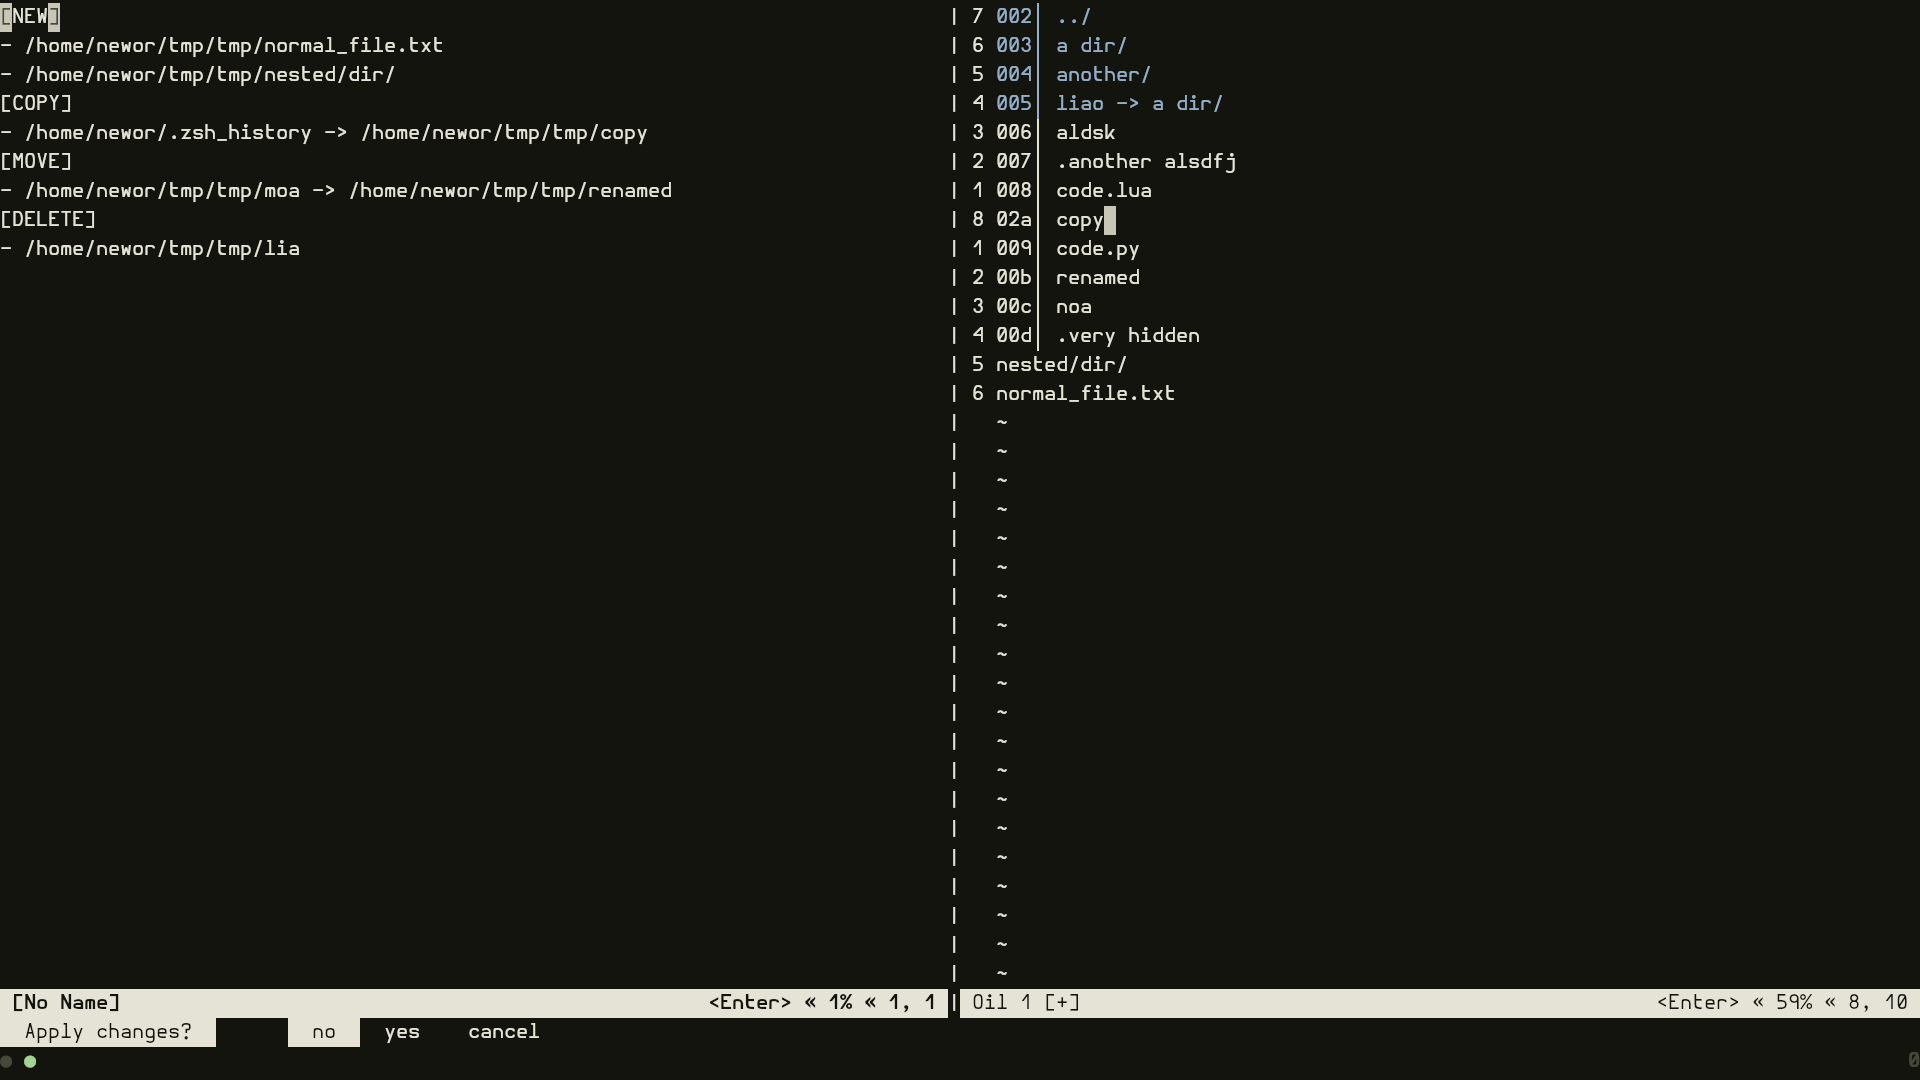
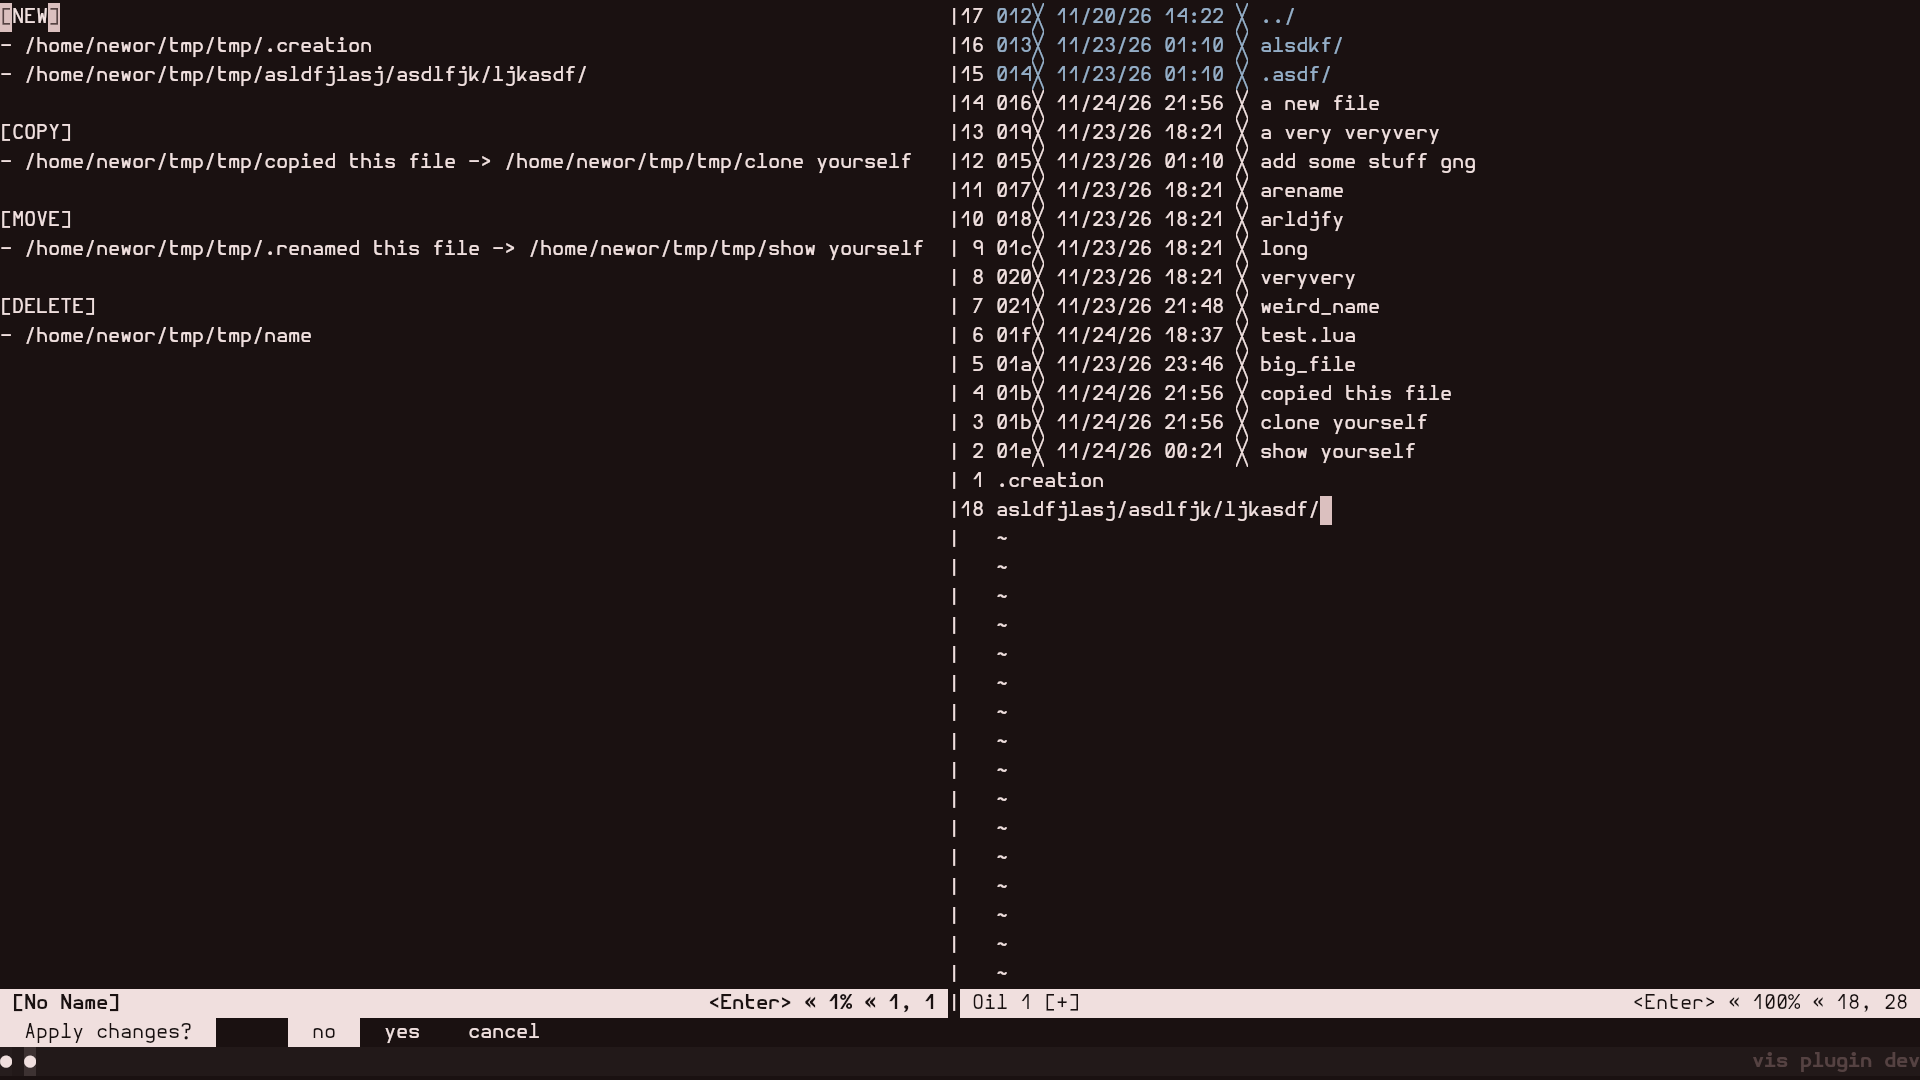
Document sort, attribute usage
[CHANGES]
- README
- Preview image

diff --git a/README.md b/README.md
@@ -15,9 +15,7 @@ Edit your filesystem like a text buffer.
 
 ### Planned
 - Full posix system support
-- Sort (creation date, name, size, last modified)
 - Icons
-- Show file information (size, creation date, last modified, permissions)
 
 ### Installation
 With vis-plug
@@ -25,7 +23,7 @@ With vis-plug
 { "newor0599/vis-oil", alias="oil" },
 ```
 
-### Configuration
+### Preview configuration
 ```lua
 -- Initialize default configuration
 oil()
@@ -41,7 +39,45 @@ oil:map_open_vertical(" vv")
 
 -- Map <Space>hh to open oil in a new horizontal window
 oil:map_open_horizontal(" hh")
+
+-- Show last modified as MM/DD/YYYY HH:MM
+oil.options.attributes = {"%D %H:%M"}
+
+-- Sort entries in option order
+--   1. Sort directory first
+--   2. Sort hidden entries last
+--   3. Sort entry size by ascending order
+oil.options.sort = { "directory", "hidden d", "size" }
+
+-- Set custom info column separator
+oil.options.separator = "╳ "
 ```
+
+### Sort options
+vis-oil sort entries by option order
+
+| option    | description             |
+| --------- | ----------------------- |
+| modified  | sort by last modified   |
+| size      | sort by file size       |
+| name      | sort by file name       |
+| hidden    | sort hidden entry first |
+| directory | sort directory first    |
+
+option with suffix `d` will operate in descending order
+
+### Attribute option
+
+| option       | description                       |
+| ------------ | --------------------------------- |
+| size         | show entry size by automatic unit |
+| permissions  | show entry mode bit               |
+| date         | show date in locale format        |
+| filetype     | show entry filetype character     |
+| user owner   | show entry's user owner           |
+| group owner  | show entry's group owner          |
+| B,KB,MB,GB.. | show size in specific unit        |
+| *strftime*   | show time with custom strftime    |
 
 ### Command usage
 ```lua
